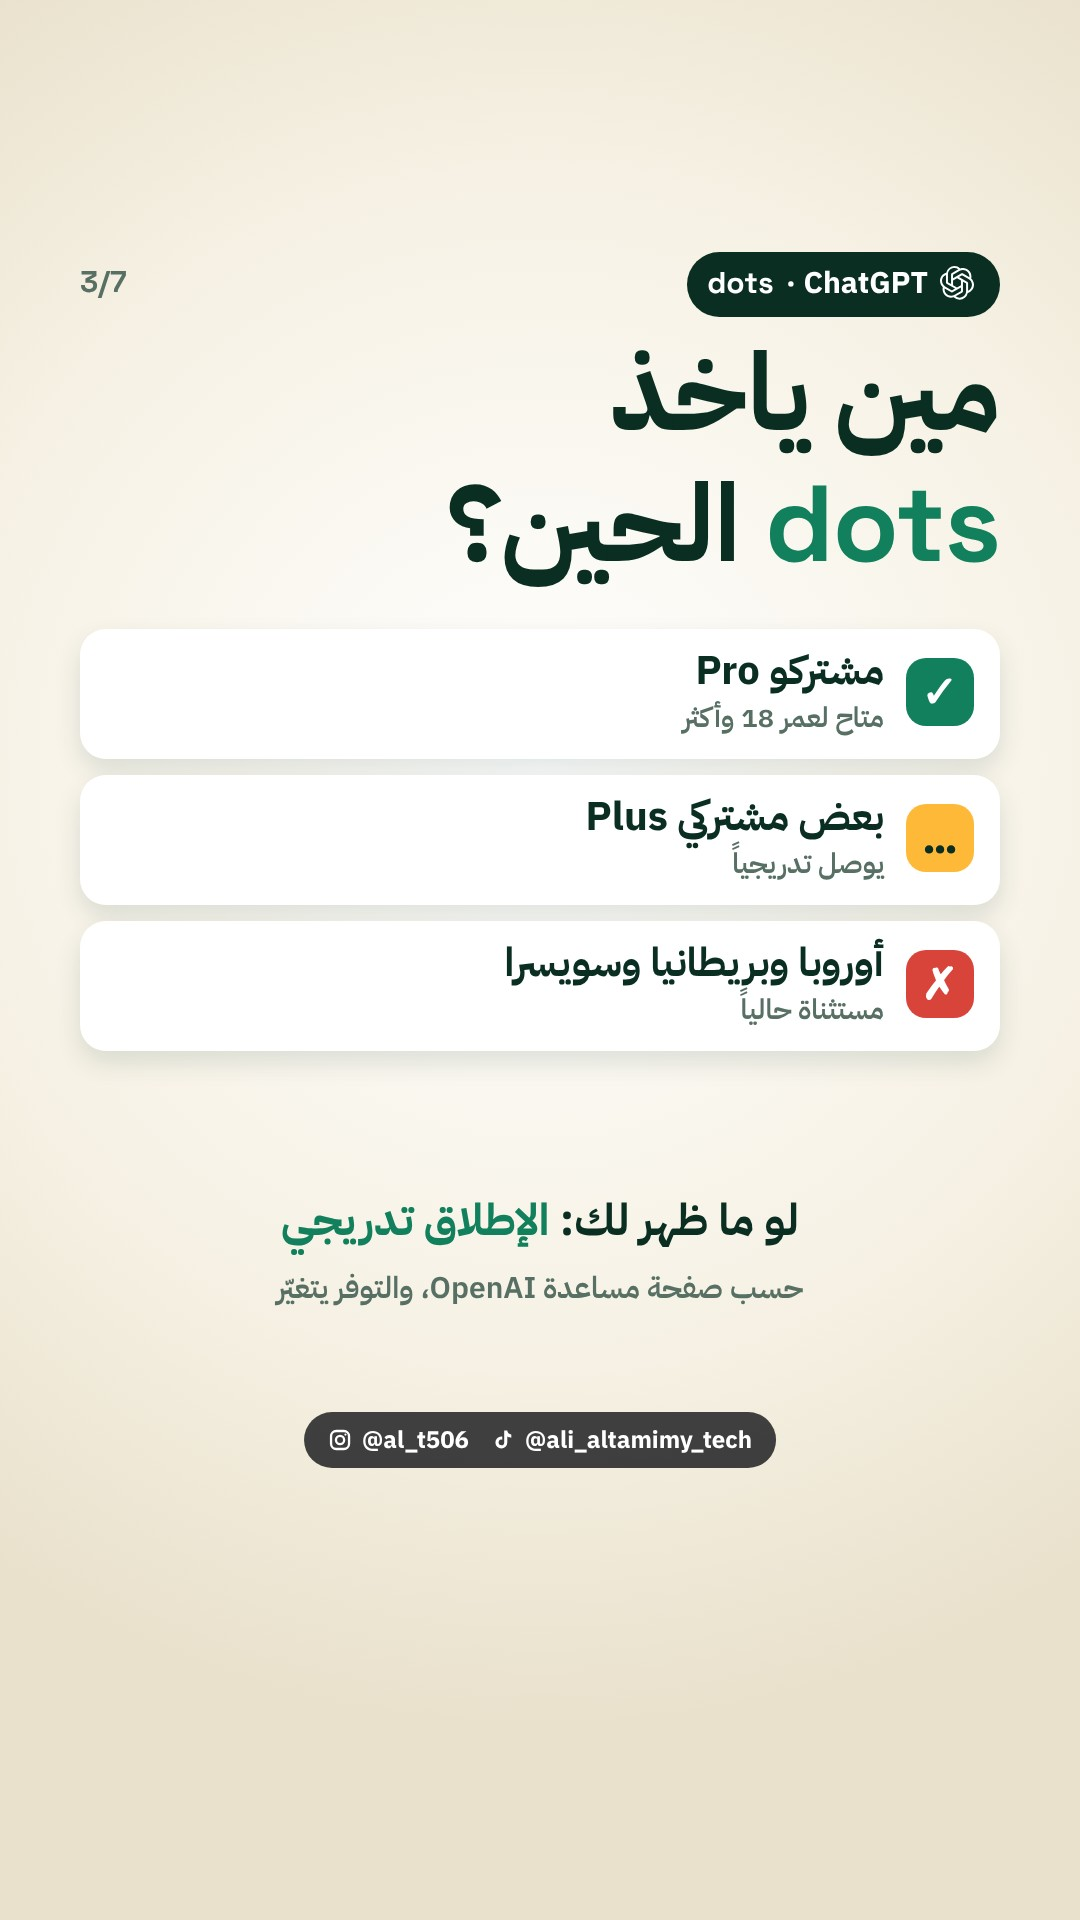
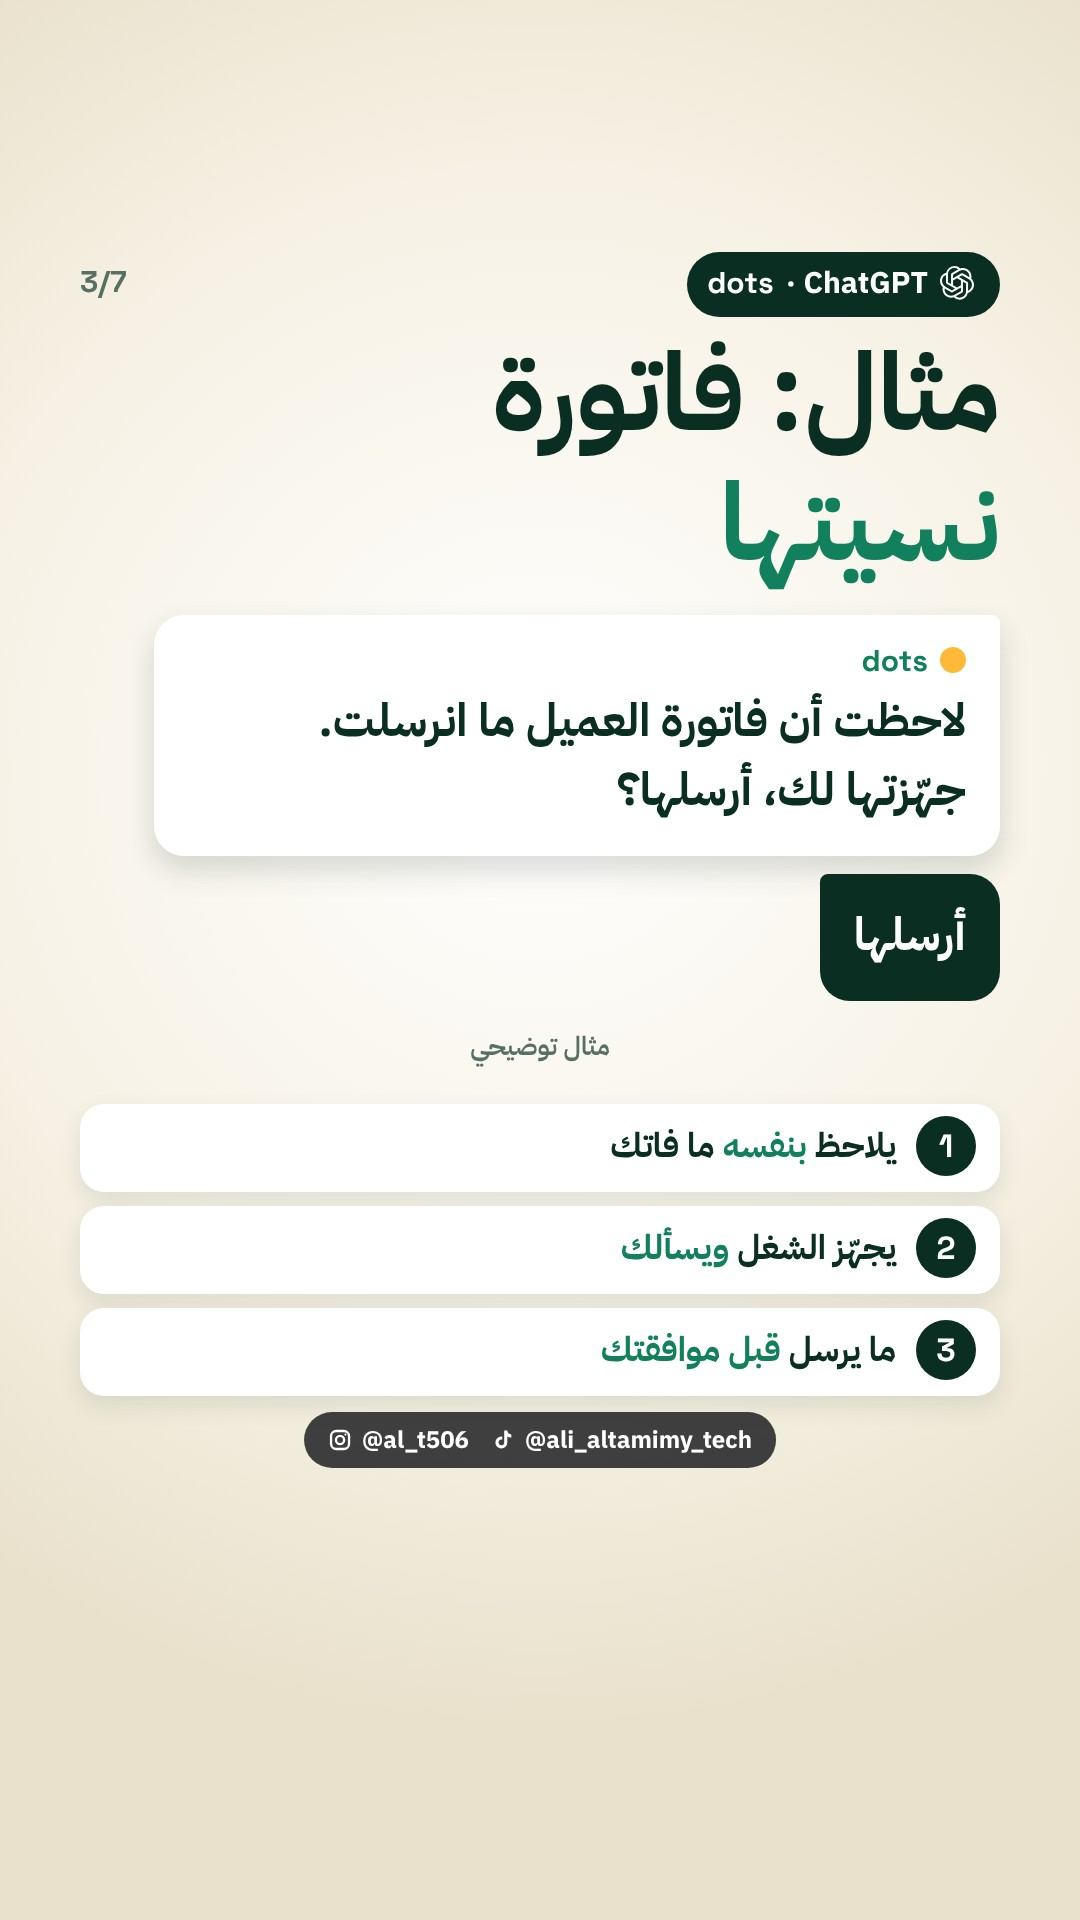
كاروسيل dots: إضافة شريحة مثال استخدام (فاتورة نسيتها) ودمج شريحتي الربط والقواعد
Claude-Session: https://claude.ai/code/session_01EgEZRcQa5qrBxqbudDi5cV

Changed region(s): [[0.1222, 0.1562, 0.9472, 0.5625], [0.0611, 0.5625, 0.9472, 0.75]]

diff --git a/output/2026-11-24/design.html b/output/2026-11-24/design.html
@@ -92,6 +92,14 @@ h2 em{font-style:normal;color:var(--em)}
 .s7 .ask{position:absolute;top:1262px;left:60px;right:60px;text-align:center;font:800 40px/1.4 'IBM Plex Sans Arabic';color:var(--amb)}
 .s7 .soc{position:absolute;top:1340px;left:0;right:0;display:flex;justify-content:center}
 .s7 .soc>div{display:flex;gap:26px;align-items:center;padding:12px 30px;border-radius:14px;background:#fff;color:var(--ink);font:700 30px 'IBM Plex Sans Arabic'}
+
+.s3 .vis{padding:0}
+.chat{width:100%;display:flex;flex-direction:column;gap:18px}
+.bub{border-radius:30px;padding:26px 34px 32px;font:700 46px/1.5 'IBM Plex Sans Arabic';max-width:92%}
+.bub.d{background:#fff;box-shadow:0 14px 30px rgba(11,46,34,.16);align-self:flex-start;border-top-right-radius:8px;margin-left:auto;margin-right:0;align-self:stretch}
+.bub.u{background:var(--ink);color:#fff;align-self:flex-start;border-top-left-radius:8px}
+.bub .who{display:flex;align-items:center;gap:12px;margin-bottom:6px;font:800 30px 'Space Grotesk';color:var(--em)}
+.bub .who i{width:26px;height:26px;border-radius:50%;background:var(--amb);display:block}
 </style></head><body><section class="slide s1"><div class="tag"><img src="assets/openai-black.svg" alt="" style="filter:invert(0)">ChatGPT · <span class="en">dots</span></div>
 <h1><span class="en">ChatGPT</span> صار<br><em>يشتغل لحاله</em></h1>
 <div class="stage"><div class="dots"><i></i><i></i><i></i></div>
@@ -109,6 +117,16 @@ h2 em{font-style:normal;color:var(--em)}
  <div class="row"><span class="n">2</span><span>يدخل <b>تطبيقاتك المربوطة</b></span></div>
  <div class="row"><span class="n">3</span><span>يبدأ <b>بنفسه</b> ويقترح عليك</span></div>
 </div></section><section class="slide s3"><div class="tag"><img src="assets/openai-white.svg" alt="">ChatGPT · <span class="en">dots</span></div><div class="pg">3/7</div>
+<h2>مثال: فاتورة<br><em>نسيتها</em></h2>
+<div class="vis"><div class="chat">
+ <div class="bub d"><div class="who"><i></i><span class="en">dots</span></div>لاحظت أن فاتورة العميل ما انرسلت. جهّزتها لك، أرسلها؟</div>
+ <div class="bub u">أرسلها</div>
+ <div class="lbl">مثال توضيحي</div></div></div>
+<div class="txt">
+ <div class="row"><span class="n">1</span><span>يلاحظ <b>بنفسه</b> ما فاتك</span></div>
+ <div class="row"><span class="n">2</span><span>يجهّز الشغل <b>ويسألك</b></span></div>
+ <div class="row"><span class="n">3</span><span>ما يرسل <b>قبل موافقتك</b></span></div>
+</div></section><section class="slide s3"><div class="tag"><img src="assets/openai-white.svg" alt="">ChatGPT · <span class="en">dots</span></div><div class="pg">4/7</div>
 <h2>مين ياخذ<br><em class="en" style="color:#12805C">dots</em> الحين؟</h2>
 <div class="vis"><div class="plan"><i>✓</i><div>مشتركو Pro<small>متاح لعمر 18 وأكثر</small></div></div>
 <div class="plan m"><i>…</i><div>بعض مشتركي Plus<small>يوصل تدريجياً</small></div></div>
@@ -116,16 +134,6 @@ h2 em{font-style:normal;color:var(--em)}
 <div class="txt">
  <div class="big">لو ما ظهر لك: <b>الإطلاق تدريجي</b></div>
  <div class="sm">حسب صفحة مساعدة OpenAI، والتوفر يتغيّر</div>
-</div></section><section class="slide s4"><div class="tag"><img src="assets/openai-white.svg" alt="">ChatGPT · <span class="en">dots</span></div><div class="pg">4/7</div>
-<h2>اربط بس<br><em>اللي تحتاجه</em></h2>
-<div class="vis"><div class="pl">
-<div class="it"><img src="assets/gmail-color.svg" alt="">Gmail<span class="tg on"></span></div>
-<div class="it"><span class="cal">24</span>التقويم<span class="tg on"></span></div>
-<div class="it"><img src="assets/notion.svg" alt="">Notion<span class="tg"></span></div>
-</div></div>
-<div class="txt">
- <div class="big">كل تطبيق تربطه <b>يقدر dots يدخله</b></div>
- <div class="sm">الربط من تبويب Plugins · واجهة توضيحية</div>
 </div></section><section class="slide s5"><div class="tag"><img src="assets/openai-white.svg" alt="">ChatGPT · <span class="en">dots</span></div><div class="pg">5/7</div>
 <h2>قيّده<br><em>بقواعدك</em></h2>
 <div class="vis"><div class="pc"><span class="lab">قلها كذا</span>
@@ -133,7 +141,7 @@ h2 em{font-style:normal;color:var(--em)}
 <div class="opts"><b>اسمح</b><b>اسألني أولاً</b><b>امنع</b></div></div></div>
 <div class="txt">
  <div class="big">لكل إجراء: <b>اسمح أو اسألني أو امنع</b></div>
- <div class="sm">على الجوال: القائمة الجانبية ← Customize ← Custom rules</div>
+ <div class="sm">على الجوال: القائمة الجانبية ← Customize ← Custom rules<br>واربط بس اللي تحتاجه من تبويب Plugins</div>
 </div></section><section class="slide s6"><div class="tag"><img src="assets/openai-white.svg" alt="">ChatGPT · <span class="en">dots</span></div><div class="pg">6/7</div>
 <h2>احفظ<br><em>قبل ما تجرّب</em></h2>
 <div class="list">

diff --git a/output/2026-11-24/design-brief.md b/output/2026-11-24/design-brief.md
@@ -3,5 +3,5 @@
 - **الاستعارة:** المساعد الذي لا ينام (روبوت حقيقي) تحيط به تطبيقاتك المربوطة، ثم لوحة مفاتيح وقواعد تتحكم بها: مفاتيح تشغيل، وبطاقة مسار، وثلاثة خيارات (اسمح · اسألني أولاً · امنع).
 - **الغلاف:** أخضر زمردي داكن #1E8A62 → #0B3D2E → #06231A (جديد)، عنوان IBM Plex Sans Arabic 800 «ChatGPT صار / يشتغل لحاله» (الثاني عنبري #FFB938)، صورة الروبوت في دائرة، ثلاث نقاط ملوّنة (dots)، شعارا Gmail وNotion الرسميان وبطاقة «تقويمك وملفاتك»، وشارة «مساعد يبادر بدون ما تطلب». الداخل كريمي #F6F1E4.
 - **الخط:** IBM Plex Sans Arabic 800 للعناوين وSpace Grotesk للإنجليزي والأرقام (لم يُستخدم IBM Plex كعنوان في آخر 10 تصاميم).
-- **خريطة الشرائح:** 1 الغلاف · 2 وش هو dots؟ (صورة حقيقية + 3 نقاط) · 3 مين ياخذه (Pro · بعض Plus · مستثناة) · 4 اربط بس اللي تحتاجه (مفاتيح) · 5 قيّده بقواعدك («قلها كذا» المسار) · 6 قائمة للحفظ · 7 المتابعة.
+- **خريطة الشرائح:** 1 الغلاف · 2 وش هو dots؟ (صورة حقيقية + 3 نقاط) · 3 مثال: فاتورة نسيتها (محادثة «مثال توضيحي»: dots يلاحظ ويجهّز ويسأل) · 4 مين ياخذه (Pro · بعض Plus · مستثناة) · 5 قيّده بقواعدك («قلها كذا» المسار + Plugins) · 6 قائمة للحفظ · 7 المتابعة. (أُضيفت شريحة المثال بطلب المستخدم، ودُمجت شريحتا الربط والقواعد.)
 - **العناصر الحقيقية:** شعار OpenAI الرسمي في الوسم، شعارا Gmail وNotion الرسميان، صورة حقيقية لروبوت (Unsplash، مكتبة الصور)، صورتك. شاشة المفاتيح مرسومة وموسومة «واجهة توضيحية».

diff --git a/output/2026-11-24/lesson.md b/output/2026-11-24/lesson.md
@@ -7,6 +7,9 @@
 - يرث الربط الموجود في حسابك (Plugins)، وأمثلة التطبيقات المذكورة في تغطية 9to5Mac: Gmail وSlack وGoogle Calendar وNotion وGitHub.
 - يقوم بـ«بحث استباقي» في تطبيقاتك المربوطة ليجد طرقاً يساعدك بها.
 
+## مثال استخدام
+مختبر مبكر (خارج OpenAI، بحسب مصادر ثانوية) نسي يرسل فاتورة لجهة تنشر له، فلاحظها dots وجهّزها وأرسلها بعد موافقته. وأمثلة OpenAI المعلنة تشمل تجهيز أعمال الفواتير للموافقة، ومراقبة ملاحظات العملاء، وإعادة تشغيل تحليل عند وصول بيانات جديدة. الإجراءات الحساسة (مثل تغيير كلمة المرور) تبقى على المستخدم نفسه بحسب OpenAI. في الشريحة 3 محادثة «مثال توضيحي» مبنية على هذا السيناريو، وليست لقطة رسمية.
+
 ## مين ياخذه؟
 بحسب صفحة مساعدة OpenAI: مشتركو Pro وبعض مشتركي Plus (عمر 18 وأكثر)، خارج المنطقة الاقتصادية الأوروبية وسويسرا وبريطانيا، والإطلاق لـPlus تدريجي ولا يستطيع الدعم تفعيله يدوياً. التوفر يتغيّر.
 
